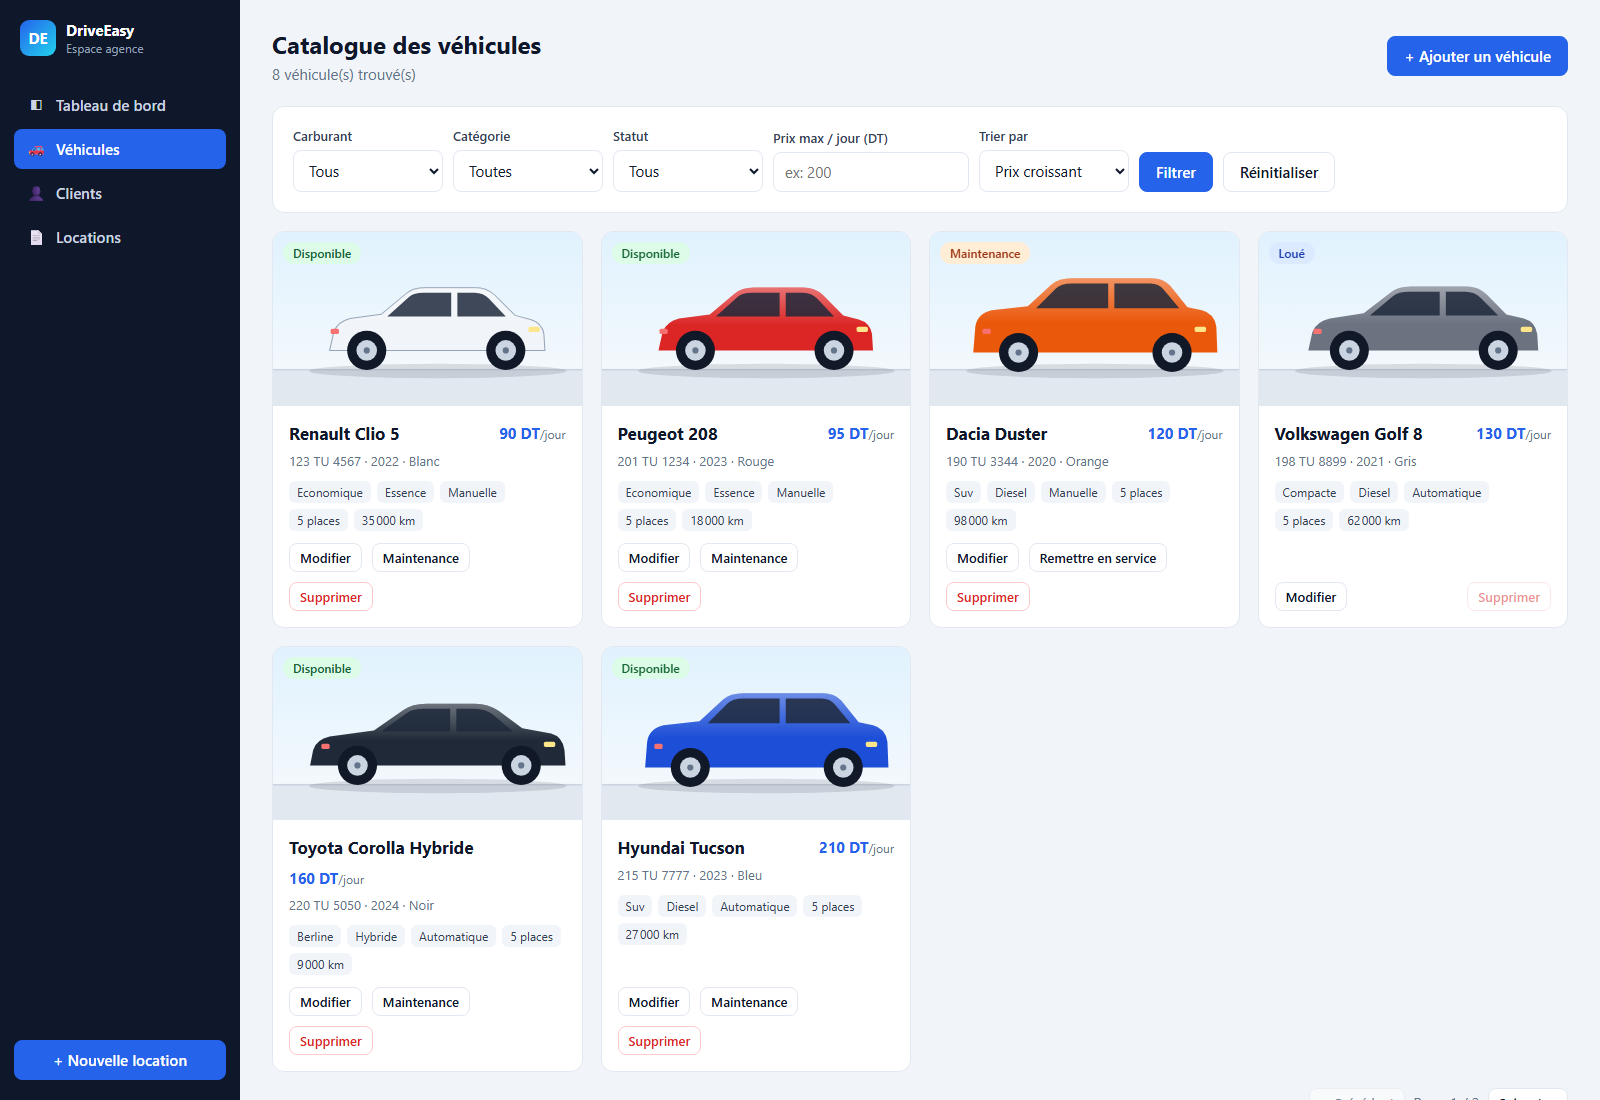
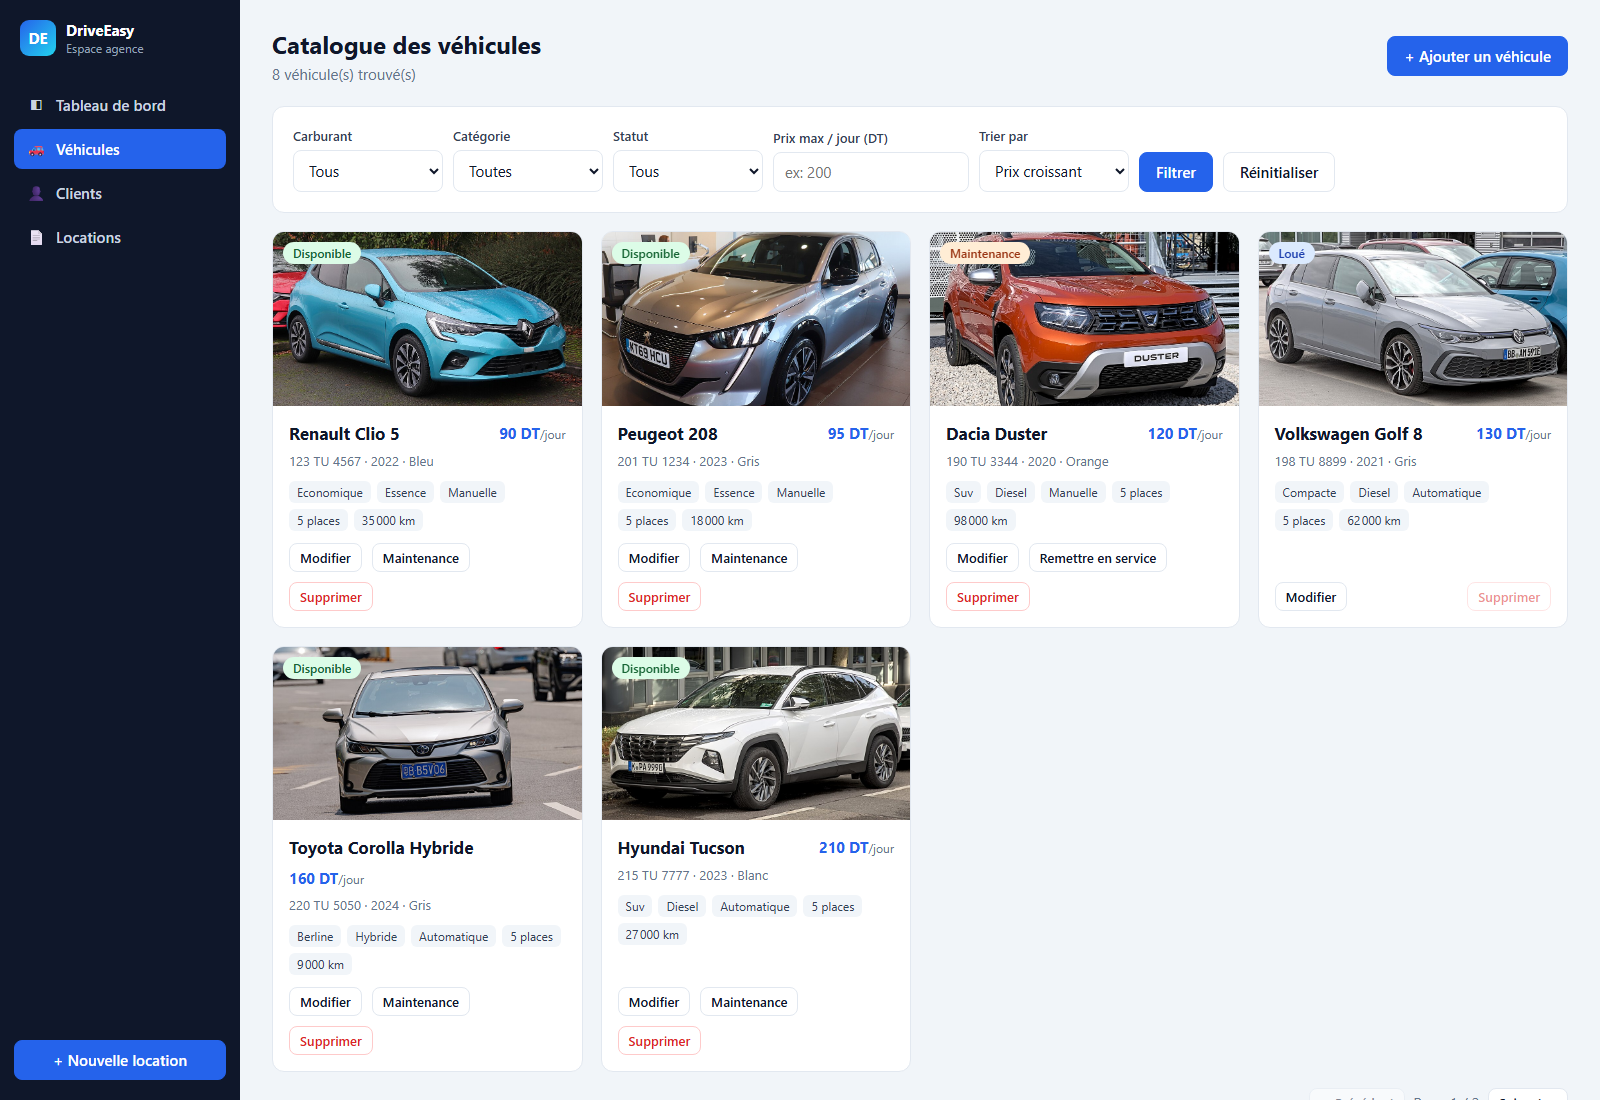
Photos réelles des véhicules (Wikimedia Commons, licences libres) avec crédits

Changed region(s): [[0.1562, 0.1855, 1.0, 0.3709], [0.1562, 0.5873, 0.5938, 0.7727]]

diff --git a/public/images/vehicules/CREDITS.md b/public/images/vehicules/CREDITS.md
@@ -1,0 +1,14 @@
+# Crédits des photos de véhicules
+
+Photos issues de [Wikimedia Commons](https://commons.wikimedia.org), redimensionnées (960 px de large), utilisées dans le cadre d'un projet pédagogique, conformément à leur licence.
+
+| Fichier | Photo | Auteur | Licence |
+| --- | --- | --- | --- |
+| `clio.jpg` | [2019 Renault Clio Iconic Front.jpg](https://commons.wikimedia.org/wiki/File:2019_Renault_Clio_Iconic_Front.jpg) | Vauxford | [CC BY-SA 4.0](https://creativecommons.org/licenses/by-sa/4.0) |
+| `208.jpg` | [2019 Peugeot 208 GT Line PureTech Automatic 1.2 Front.jpg](https://commons.wikimedia.org/wiki/File:2019_Peugeot_208_GT_Line_PureTech_Automatic_1.2_Front.jpg) | Vauxford | [CC BY-SA 4.0](https://creativecommons.org/licenses/by-sa/4.0) |
+| `golf.jpg` | [Volkswagen Golf VIII GTE 1X7A0306.jpg](https://commons.wikimedia.org/wiki/File:Volkswagen_Golf_VIII_GTE_1X7A0306.jpg) | Alexander Migl | [CC BY-SA 4.0](https://creativecommons.org/licenses/by-sa/4.0) |
+| `corolla.jpg` | [TOYOTA COROLLA SEDAN HYBRID (E210) China.jpg](https://commons.wikimedia.org/wiki/File:TOYOTA_COROLLA_SEDAN_HYBRID_(E210)_China.jpg) | Dinkun Chen | [CC BY-SA 4.0](https://creativecommons.org/licenses/by-sa/4.0) |
+| `tucson.jpg` | [Hyundai Tucson (NX4) 1X7A0424.jpg](https://commons.wikimedia.org/wiki/File:Hyundai_Tucson_(NX4)_1X7A0424.jpg) | Alexander Migl | [CC BY-SA 4.0](https://creativecommons.org/licenses/by-sa/4.0) |
+| `model3.jpg` | [Tesla Model 3 (2023) IMG 9488 (cropped).jpg](https://commons.wikimedia.org/wiki/File:Tesla_Model_3_(2023)_IMG_9488_(cropped).jpg) | Alexander-93 | [CC BY-SA 4.0](https://creativecommons.org/licenses/by-sa/4.0) |
+| `duster.jpg` | [Dacia Duster II Facelift IAA 2021 1X7A0132.jpg](https://commons.wikimedia.org/wiki/File:Dacia_Duster_II_Facelift_IAA_2021_1X7A0132.jpg) | Alexander Migl | [CC BY-SA 4.0](https://creativecommons.org/licenses/by-sa/4.0) |
+| `classe-c.jpg` | [Mercedes-Benz C-Klasse (W206) C 300 e (2023) (53332285753).jpg](https://commons.wikimedia.org/wiki/File:Mercedes-Benz_C-Klasse_(W206)_C_300_e_(2023)_(53332285753).jpg) | Charles from Port Chester, New York | [CC BY 2.0](https://creativecommons.org/licenses/by/2.0) |

diff --git a/README.md b/README.md
@@ -94,4 +94,4 @@ src/app/
 ### Retour de véhicule
 ![Retour](docs/captures/retour-vehicule.png)
 
-Les images des véhicules sont des illustrations SVG locales (`public/images/vehicules`) : l'application fonctionne sans connexion internet.
+Les photos des véhicules sont stockées localement (`public/images/vehicules`), l'application fonctionne donc sans connexion internet. Elles proviennent de Wikimedia Commons sous licences libres (CC BY-SA 4.0 / CC BY 2.0) : auteurs et liens dans [`public/images/vehicules/CREDITS.md`](public/images/vehicules/CREDITS.md).
